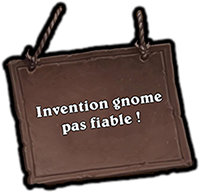
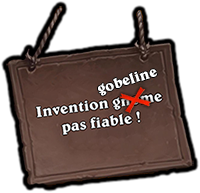
Neth modifs

Changed region(s): [[0.48, 0.342, 0.81, 0.5907]]

diff --git a/hsr/templates/base.html b/hsr/templates/base.html
@@ -13,101 +13,7 @@
         <link href="/static/bbcode/editor.css" rel="Stylesheet" type="text/css" />
         <script src="/static/bbcode/editor.js" type="text/javascript"></script>
         <script src="//ajax.googleapis.com/ajax/libs/jquery/1.9.1/jquery.min.js"></script> 
-        
-        <script type="text/javascript">
-//###################################################################
-// Author: ricocheting.com
-// Version: v3.0
-// Date: 2014-09-05
-// Description: displays the amount of time until the "dateFuture" entered below.
 
-var CDown = function() {
-	this.state=0;// if initialized
-	this.counts=[];// array holding countdown date objects and id to print to {d:new Date(2013,11,18,18,54,36), id:"countbox1"}
-	this.interval=null;// setInterval object
-}
-
-CDown.prototype = {
-	init: function(){
-		this.state=1;
-		var self=this;
-		this.interval=window.setInterval(function(){self.tick();}, 1000);
-	},
-	add: function(date,id){
-		this.counts.push({d:date,id:id});
-		this.tick();
-		if(this.state==0) this.init();
-	},
-	expire: function(idxs){
-		for(var x in idxs) {
-			this.display(this.counts[idxs[x]], "Now!");
-			this.counts.splice(idxs[x], 1);
-		}
-	},
-	format: function(r){
-		var out="";
-		if(r.d != 0){out += r.d +" "+((r.d==1)?"jour":"jours")+" ";}
-		if(r.h != 0){out += r.h +" "+((r.h==1)?"heure":"heures")+" ";}
-		out += r.m +" "+((r.m==1)?"min":"mins")+" ";
-		out += r.s +" "+((r.s==1)?"sec":"secs")+" ";
-
-		return out.substr(0,out.length-2);
-	},
-	math: function(work){
-		var	y=w=d=h=m=s=ms=0;
-
-		ms=(""+((work%1000)+1000)).substr(1,3);
-		work=Math.floor(work/1000);//kill the "milliseconds" so just secs
-
-		y=Math.floor(work/31536000);//years (no leapyear support)
-		w=Math.floor(work/604800);//weeks
-		d=Math.floor(work/86400);//days
-		work=work%86400;
-
-		work=work%3600;
-
-		work=work%60;
-
-
-		return {y:y,w:w,d:d,h:Math.floor(Math.random() * 24),m:Math.floor(Math.random() * 60),s:Math.floor(Math.random() * 60),ms:ms};
-	},
-	tick: function(){
-		var now=(new Date()).getTime(),
-			expired=[],cnt=0,amount=0;
-
-		if(this.counts)
-		for(var idx=0,n=this.counts.length; idx<n; ++idx){
-			cnt=this.counts[idx];
-			amount=cnt.d.getTime()-now;//calc milliseconds between dates
-
-			// if time is already past
-			if(amount<0){
-				expired.push(idx);
-			}
-			// date is still good
-			else{
-				this.display(cnt, this.format(this.math(amount)));
-			}
-		}
-
-		// deal with any expired
-		if(expired.length>0) this.expire(expired);
-
-		// if no active counts, stop updating
-		if(this.counts.length==0) window.clearTimeout(this.interval);
-		
-	},
-	display: function(cnt,msg){
-		document.getElementById(cnt.id).innerHTML=msg;
-	}
-};
-
-window.onload=function(){
-	var cdown = new CDown();
-
-	cdown.add(new Date(2014,11,9,9,00,00), "countbox1");
-};
-</script>
         {% block script %}
         {% endblock %}
         {% if request.user.is_active %}
@@ -144,6 +50,10 @@ window.onload=function(){
 
 		<div id="logo_gvg"></div>
 		
+		<div id="pas_fiable2"></div>
+		<div id="getg"></div>
+		
+		
 		<div id="twitter_box">
 		<a class="twitter-timeline" href="https://twitter.com/HS_Romandie" data-widget-id="539348362961883137">Tweets by @HS_Romandie</a>
 <script>!function(d,s,id){var js,fjs=d.getElementsByTagName(s)[0],p=/^http:/.test(d.location)?'http':'https';if(!d.getElementById(id)){js=d.createElement(s);js.id=id;js.src=p+"://platform.twitter.com/widgets.js";fjs.parentNode.insertBefore(js,fjs);}}(document,"script","twitter-wjs");</script>
@@ -153,16 +63,8 @@ window.onload=function(){
 	
 			
 		<div id="menu">
-		</div>
-		
-		<div style="position: absolute; top: 333px; left: 71%; margin-left: -96px; background-image: url('http://hearthstone-romandie.ch/static/images/divers/pas_fiable.png'); background-repeat: no-repeat; width: 193px; height: 200px; z-index: 999;"></div>
-
-		<div id="countbox1"style="position: absolute; top :310px; left: 59%; marign-left: -100px; font-size: 20px; 
-	background: rgba(0,0,0, 0.8) url('/static/images/backgrounds/repeat/Diago_transp_50opacity.png');
-	border: 3px double rgba(139,69,19, 1);
-	-webkit-box-shadow: 0px 0px 10px 2px rgba(0,0,0,1);
-	-moz-box-shadow: 0px 0px 10px 2px rgba(0,0,0,1);
-	box-shadow: 0px 0px 10px 2px rgba(0,0,0,1); padding: 5px; height: 21px; width: 246px; text-align: center;"></div>
+		</div>	
+	
 		<a href="/"><div id="menu_actualite_h"></div></a>
 		<a href="/forum/"><div id="menu_forum_h"></div></a>
 		<a href="/profil/recherche/"><div id="menu_membres_h"></div></a>

diff --git a/hsr/static/styles/style_1.css b/hsr/static/styles/style_1.css
@@ -95,6 +95,26 @@ a:hover {
     z-index: 12;
 }
 
+#pas_fiable2 {
+	position: absolute;
+	background-image: url('http://hearthstone-romandie.ch/static/images/divers/pas_fiable2.png');
+	background-repeat: no-repeat;
+    width: 200px;
+    height: 193px;
+    top: 280px; left: 62%; margin-left: -96px;
+    z-index: 17;
+}
+
+#getg {
+	position: absolute;
+	background-image: url('http://hearthstone-romandie.ch/static/images/divers/gvg_out.png');
+	background-repeat: no-repeat;
+    width: 300px;
+    height: 211px;
+    top: -20px; left: 22.5%; margin-left: -105.5px;
+    z-index: 17;
+}
+
 /* MENU */
 
 #menu {
